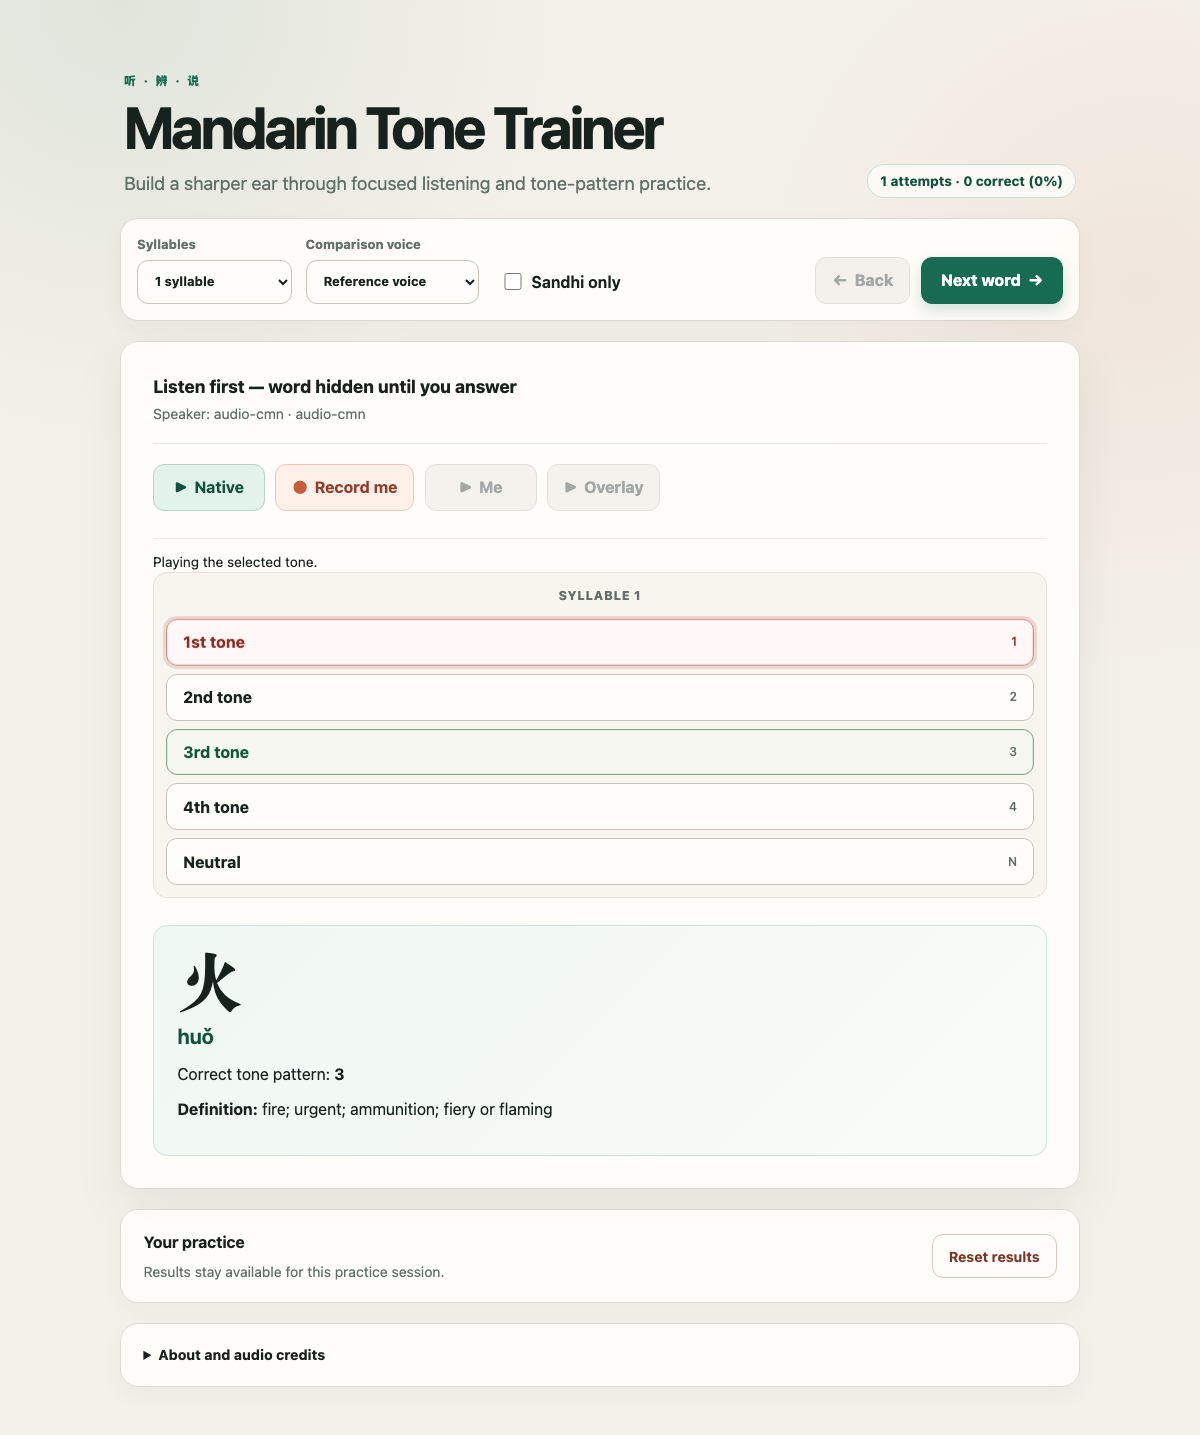
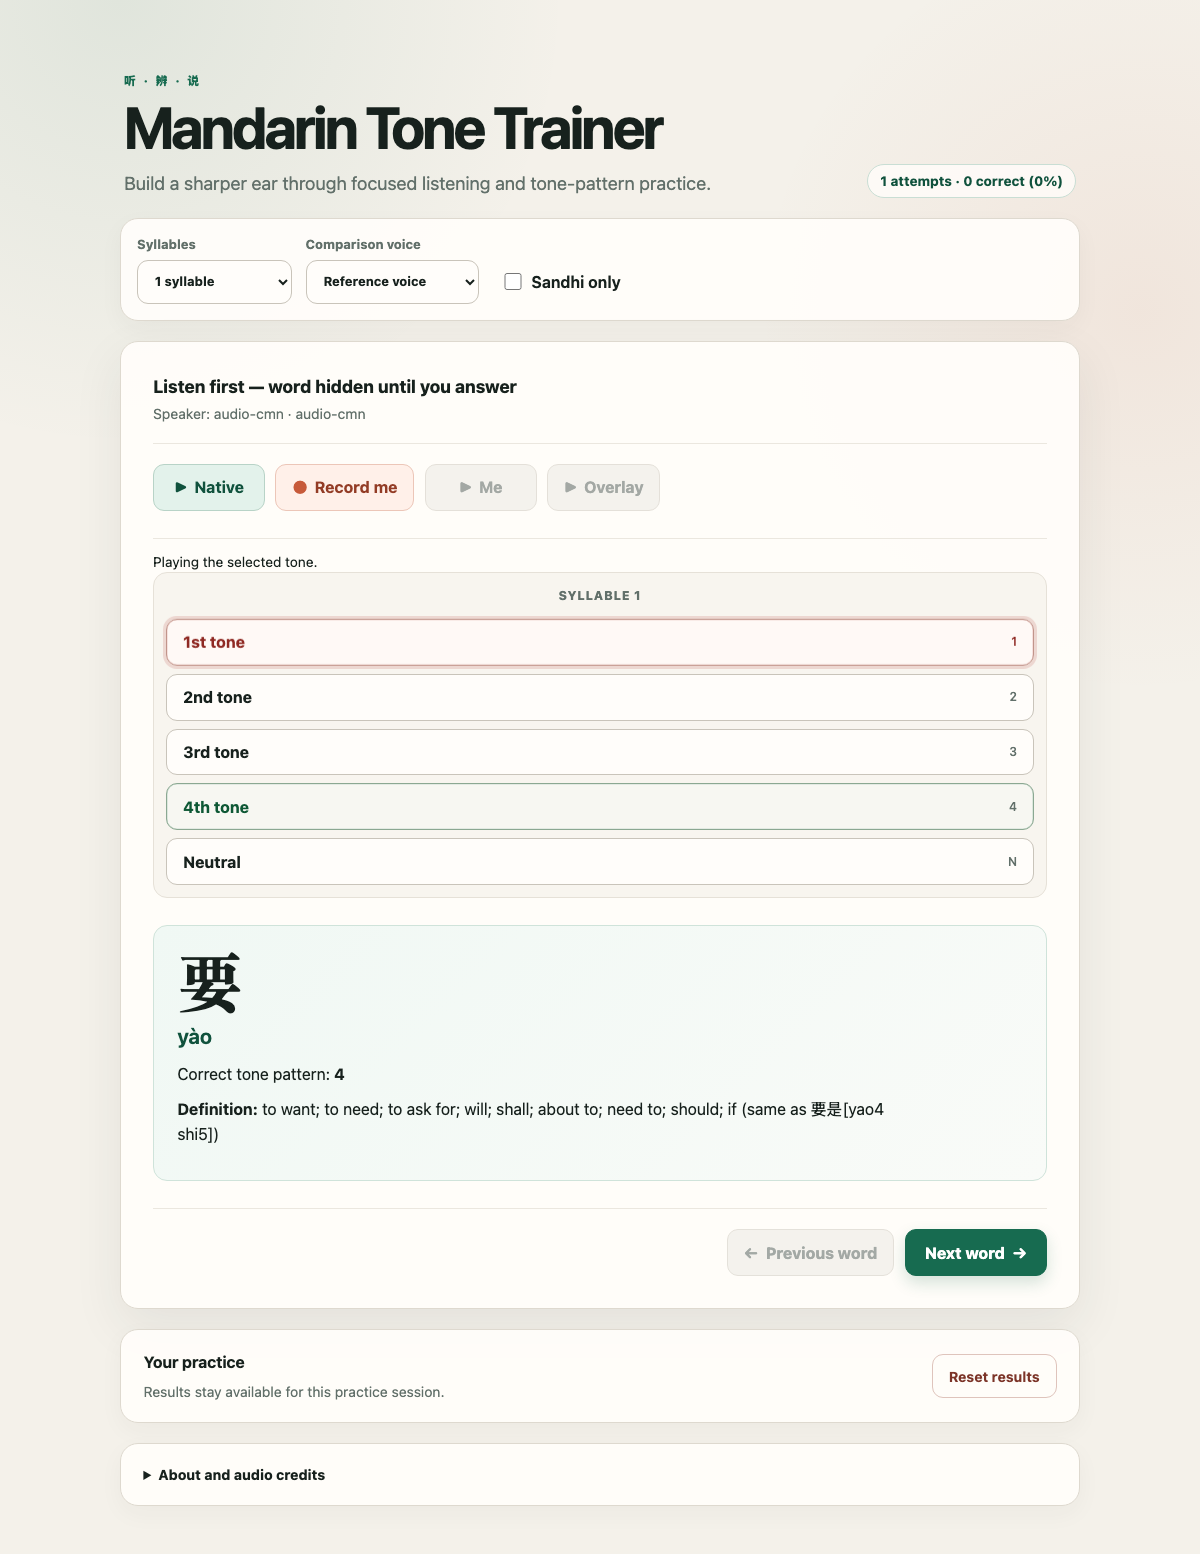
change format

diff --git a/app/app.js b/app/app.js
@@ -211,6 +211,19 @@ function grade(p,correct){
   const definition=current.definition?`<p class="definition"><strong>Definition:</strong> ${escapeHTML(current.definition)}</p>`:'';
   $('reveal').innerHTML=`<div class="word">${escapeHTML(current.word)}</div><div class="pinyin">${escapeHTML(current.pinyin)}</div><p>Correct tone pattern: <b>${escapeHTML(correct)}</b></p>${definition}<div>${tags}</div>${current.surface_label_needs_clip_review?'<p class="muted">This word may vary with prosodic grouping.</p>':''}`;
   $('reveal').classList.remove('hidden');
+  if(window.matchMedia('(max-width: 680px)').matches){
+    $('reveal').scrollIntoView({
+      behavior:window.matchMedia('(prefers-reduced-motion: reduce)').matches?'auto':'smooth',
+      block:'nearest',
+    });
+  }
+}
+function scrollToPractice(){
+  if(!window.matchMedia('(max-width: 680px)').matches)return;
+  document.querySelector('.card').scrollIntoView({
+    behavior:window.matchMedia('(prefers-reduced-motion: reduce)').matches?'auto':'smooth',
+    block:'start',
+  });
 }
 function audioURL(r){if(!r)return null;let p=r.audio_path||''; if(p.startsWith('audio/'))return '../'+p; return p}
 function stopNative(){
@@ -411,8 +424,8 @@ async function playCorrection(index,tone){
   return playPinyinKey(key);
 }
 $('play').onclick=playNative;
-$('back').onclick=()=>back(true);
-$('next').onclick=()=>next(true);
+$('back').onclick=()=>{back(true);scrollToPractice()};
+$('next').onclick=()=>{next(true);scrollToPractice()};
 $('syllables').onchange=()=>{quizHistory=[];next(true,false)};
 $('correctionSource').onchange=()=>{
   stopCorrection();

diff --git a/app/style.css b/app/style.css
@@ -221,8 +221,11 @@ select {
 
 .practice-navigation {
   display: flex;
+  justify-content: flex-end;
   gap: 0.65rem;
-  margin-left: auto;
+  margin-top: 1.7rem;
+  padding-top: 1.25rem;
+  border-top: 1px solid #ebe7df;
 }
 
 .practice-navigation .primary-button {
@@ -390,6 +393,7 @@ select {
 .reveal {
   margin-top: 1.7rem;
   padding: 1.45rem;
+  scroll-margin-block: 1rem 7rem;
   border: 1px solid #cfe3da;
   border-radius: 14px;
   background: linear-gradient(135deg, #f0f8f4, #f9fbf8);
@@ -519,6 +523,7 @@ code {
   main {
     width: min(100% - 1.25rem, 960px);
     padding-top: calc(1.5rem + env(safe-area-inset-top));
+    padding-bottom: calc(7rem + env(safe-area-inset-bottom));
   }
 
   header {
@@ -550,9 +555,25 @@ code {
 
   .practice-navigation {
     display: grid;
-    grid-template-columns: 1fr 1fr;
-    width: 100%;
-    margin-left: 0;
+    grid-template-columns: minmax(0, 0.9fr) minmax(0, 1.1fr);
+    position: fixed;
+    z-index: 20;
+    right: max(0.625rem, env(safe-area-inset-right));
+    bottom: max(0.625rem, env(safe-area-inset-bottom));
+    left: max(0.625rem, env(safe-area-inset-left));
+    width: auto;
+    max-width: 560px;
+    margin: 0 auto;
+    padding: 0.75rem;
+    border: 1px solid rgba(201, 196, 186, 0.9);
+    border-radius: 14px;
+    background: rgba(255, 253, 250, 0.96);
+    box-shadow: 0 10px 30px rgba(43, 53, 47, 0.16);
+    backdrop-filter: blur(12px);
+  }
+
+  .practice-navigation button {
+    min-height: 52px;
   }
 
   .back-button {

diff --git a/app/index.html b/app/index.html
@@ -38,10 +38,6 @@
         <input type="checkbox" id="sandhiOnly">
         <span>Sandhi only</span>
       </label>
-      <div class="practice-navigation">
-        <button id="back" class="back-button" type="button" disabled><span aria-hidden="true">←</span> Back</button>
-        <button id="next" class="primary-button" type="button">Next word <span aria-hidden="true">→</span></button>
-      </div>
     </section>
 
     <section class="card" aria-label="Tone practice">
@@ -55,6 +51,10 @@
       <div id="audioStatus" class="audio-status" role="status" aria-live="polite"></div>
       <div id="answers" class="answers"></div>
       <div id="reveal" class="reveal hidden" aria-live="polite"></div>
+      <nav class="practice-navigation" aria-label="Word navigation">
+        <button id="back" class="back-button" type="button" disabled><span aria-hidden="true">←</span> Previous word</button>
+        <button id="next" class="primary-button" type="button">Next word <span aria-hidden="true">→</span></button>
+      </nav>
     </section>
 
     <section class="help progress-panel" aria-label="Progress controls">

diff --git a/scripts/configure_android_signing.py b/scripts/configure_android_signing.py
@@ -1,0 +1,146 @@
+#!/usr/bin/env python3
+"""Create or validate the private Android release-signing configuration."""
+import argparse
+import getpass
+import os
+import shutil
+import subprocess
+from pathlib import Path
+
+
+ROOT = Path(__file__).resolve().parents[1]
+DEFAULT_KEYSTORE = Path.home() / '.local' / 'share' / 'mandarin-tone-trainer' / 'release.jks'
+
+
+def property_value(value):
+    return (
+        str(value)
+        .replace('\\', '\\\\')
+        .replace('\n', '\\n')
+        .replace('\r', '\\r')
+        .replace('\t', '\\t')
+    )
+
+
+def write_signing_properties(path, keystore, alias, store_password, key_password):
+    path.write_text(
+        '\n'.join([
+            f'storeFile={property_value(keystore.resolve())}',
+            f'storePassword={property_value(store_password)}',
+            f'keyAlias={property_value(alias)}',
+            f'keyPassword={property_value(key_password)}',
+            '',
+        ]),
+        encoding='utf-8',
+    )
+    path.chmod(0o600)
+
+
+def confirmed_password(prompt):
+    password = getpass.getpass(prompt)
+    if len(password) < 6:
+        raise SystemExit('The keystore password must contain at least 6 characters.')
+    if password != getpass.getpass('Confirm password: '):
+        raise SystemExit('The passwords did not match. No signing configuration was written.')
+    return password
+
+
+def keytool_path():
+    local = Path.home() / '.local' / 'bin' / 'keytool'
+    if local.is_file():
+        return str(local)
+    command = shutil.which('keytool')
+    if command:
+        return command
+    raise SystemExit(
+        'keytool is unavailable. Run python3 scripts/bootstrap.py first.'
+    )
+
+
+def create_keystore(command, path, alias, password):
+    path.parent.mkdir(parents=True, exist_ok=True)
+    environment = os.environ.copy()
+    environment['MTT_KEYSTORE_PASSWORD'] = password
+    subprocess.run(
+        [
+            command,
+            '-genkeypair',
+            '-keystore',
+            str(path),
+            '-alias',
+            alias,
+            '-keyalg',
+            'RSA',
+            '-keysize',
+            '4096',
+            '-validity',
+            '10000',
+            '-dname',
+            'CN=Mandarin Tone Trainer',
+            '-storepass:env',
+            'MTT_KEYSTORE_PASSWORD',
+            '-keypass:env',
+            'MTT_KEYSTORE_PASSWORD',
+            '-noprompt',
+        ],
+        check=True,
+        env=environment,
+    )
+    path.chmod(0o600)
+
+
+def validate_keystore(command, path, alias, password):
+    environment = os.environ.copy()
+    environment['MTT_KEYSTORE_PASSWORD'] = password
+    result = subprocess.run(
+        [
+            command,
+            '-list',
+            '-keystore',
+            str(path),
+            '-alias',
+            alias,
+            '-storepass:env',
+            'MTT_KEYSTORE_PASSWORD',
+        ],
+        capture_output=True,
+        text=True,
+        env=environment,
+    )
+    if result.returncode:
+        raise SystemExit(
+            'The keystore password or alias is incorrect. '
+            'No signing configuration was written.'
+        )
+
+
+def main():
+    parser = argparse.ArgumentParser()
+    parser.add_argument('--keystore', type=Path, default=DEFAULT_KEYSTORE)
+    parser.add_argument('--alias', default='mandarin-tone-trainer')
+    args = parser.parse_args()
+
+    command = keytool_path()
+    if args.keystore.exists():
+        password = getpass.getpass('Existing keystore password: ')
+        validate_keystore(command, args.keystore, args.alias, password)
+    else:
+        print(f'Creating private release keystore at {args.keystore}')
+        password = confirmed_password('New keystore password: ')
+        create_keystore(command, args.keystore, args.alias, password)
+
+    properties = ROOT / 'keystore.properties'
+    write_signing_properties(
+        properties,
+        args.keystore,
+        args.alias,
+        password,
+        password,
+    )
+    print(f'Release signing is configured in {properties}.')
+    print('The keystore and properties file are private and ignored by Git.')
+    print('Build the signed APK with: npm run android:release')
+
+
+if __name__ == '__main__':
+    main()

diff --git a/tests/test_audio_pipeline.py b/tests/test_audio_pipeline.py
@@ -30,6 +30,7 @@ add_definitions = load_script('add_definitions.py')
 check_syllables = load_script('check_audio_cmn_syllables.py')
 download_public_pinyin = load_script('download_public_pinyin_syllables.py')
 bootstrap_script = load_script('bootstrap.py')
+configure_signing = load_script('configure_android_signing.py')
 
 
 class PinyinSegmentationTests(unittest.TestCase):
@@ -302,6 +303,14 @@ process.stdout.write(JSON.stringify(result));
         source = (ROOT / 'app' / 'app.js').read_text(encoding='utf-8')
         self.assertIn('id="back"', index)
         self.assertIn('id="back" class="back-button" type="button" disabled', index)
+        card = index.split('<section class="card"', 1)[1].split('</section>', 1)[0]
+        self.assertIn('aria-label="Word navigation"', card)
+        self.assertGreater(card.index('id="next"'), card.index('id="reveal"'))
+        controls = index.split('<section class="controls"', 1)[1].split(
+            '</section>',
+            1,
+        )[0]
+        self.assertNotIn('id="next"', controls)
         self.assertIn('QUIZ_HISTORY_LIMIT=50', source)
         self.assertIn('function currentSnapshot()', source)
         self.assertIn('selectedTones:[...selectedTones]', source)
@@ -309,7 +318,17 @@ process.stdout.write(JSON.stringify(result));
         self.assertIn('function restoreToneState(state)', source)
         self.assertIn('function back(play=false)', source)
         self.assertIn('quizHistory.pop()', source)
-        self.assertIn("$('back').onclick=()=>back(true);", source)
+        self.assertIn("function scrollToPractice()", source)
+        self.assertIn("$('reveal').scrollIntoView", source)
+        self.assertIn("document.querySelector('.card').scrollIntoView", source)
+        self.assertIn(
+            "$('back').onclick=()=>{back(true);scrollToPractice()}",
+            source,
+        )
+        self.assertIn(
+            "$('next').onclick=()=>{next(true);scrollToPractice()}",
+            source,
+        )
         self.assertIn("load().then(()=>next(true,false))", source)
         self.assertIn("quizHistory=[];next(true,false)", source)
 
@@ -517,6 +536,24 @@ process.stdout.write(JSON.stringify(result));
             cwd=ROOT,
         )
         self.assertNotEqual(example.returncode, 0)
+
+    def test_signing_configuration_is_private_and_escaped(self):
+        with tempfile.TemporaryDirectory() as directory:
+            root = Path(directory)
+            properties = root / 'keystore.properties'
+            keystore = root / 'release.jks'
+            configure_signing.write_signing_properties(
+                properties,
+                keystore,
+                'mandarin-tone-trainer',
+                r'store\password',
+                r'key\password',
+            )
+            self.assertEqual(properties.stat().st_mode & 0o777, 0o600)
+            content = properties.read_text()
+            self.assertIn(f'storeFile={keystore.resolve()}', content)
+            self.assertIn(r'storePassword=store\\password', content)
+            self.assertIn(r'keyPassword=key\\password', content)
 
     def test_bad_human_syllables_have_explicit_fallback_policy(self):
         quality = json.loads(

diff --git a/docs/android.md b/docs/android.md
@@ -37,20 +37,22 @@ android/app/build/outputs/apk/debug/app-debug.apk
 
 ## Release signing
 
-Create and securely back up a private keystore outside the repository:
+Configure signing with one interactive command:
 
 ```bash
-mkdir -p ~/.local/share/mandarin-tone-trainer
-"$HOME/.local/bin/keytool" -genkeypair \
-  -keystore ~/.local/share/mandarin-tone-trainer/release.jks \
-  -alias mandarin-tone-trainer \
-  -keyalg RSA \
-  -keysize 4096 \
-  -validity 10000
+npm run android:signing
 ```
 
-Copy `keystore.properties.example` to the ignored `keystore.properties` file.
-Enter the absolute keystore path, alias, and passwords.
+The command creates a private keystore when one does not exist, or validates
+the existing keystore password. It then writes the ignored
+`keystore.properties` file with owner-only permissions. The password is
+entered securely and is not printed.
+
+Back up the keystore and its password together. By default the keystore is:
+
+```text
+~/.local/share/mandarin-tone-trainer/release.jks
+```
 
 ```bash
 npm run android:release
@@ -62,8 +64,8 @@ The signed APK is written to:
 android/app/build/outputs/apk/release/app-release.apk
 ```
 
-Never commit the keystore or `keystore.properties`. Back up the keystore and
-credentials together. Android updates must be signed with the same key.
+Never commit the keystore or `keystore.properties`. Android updates must be
+signed with the same key.
 
 ## Install on a device
 
